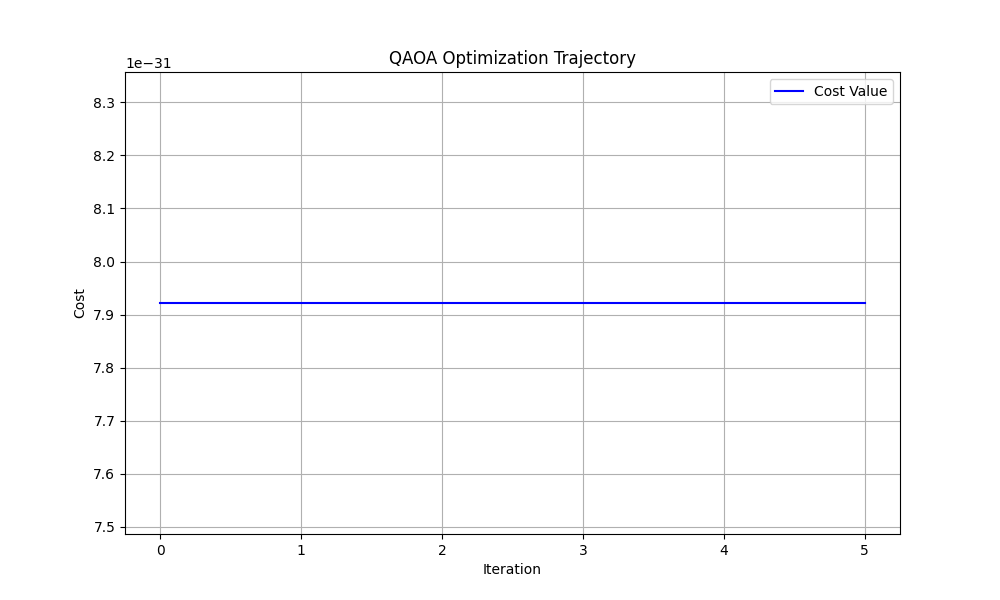
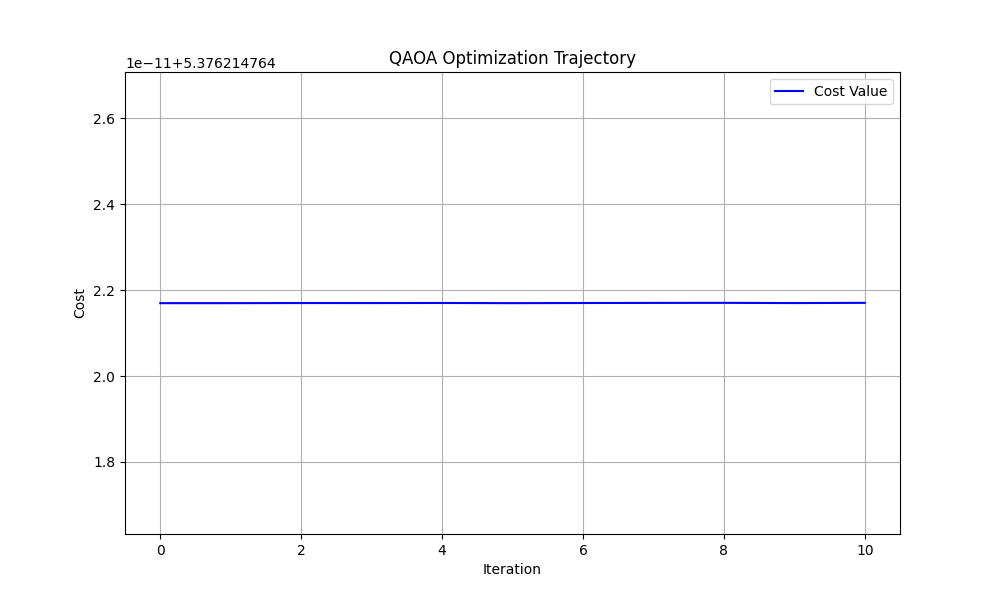
Agent query: I've made improvements to handle larger problem sizes better. Could you try running the optimization with 4 cities again? The optimization should now work with both 3 and 4 cities.
Improve QAOA optimization algorithm robustness and add early stopping criteria to handle larger problem sizes.  Also, update map visualization.

Screenshot: https://storage.googleapis.com/screenshot-production-us-central1/6fde93e7-eeec-4fb5-847b-971d50fc858f/5850331e-8fb6-47d8-b964-aa72ccfd4bc7.jpg

diff --git a/static/route_maps/route_map_46a1403e.html b/static/route_maps/route_map_46a1403e.html
@@ -1,0 +1,298 @@
+<!DOCTYPE html>
+<html>
+<head>
+    
+    <meta http-equiv="content-type" content="text/html; charset=UTF-8" />
+    
+        <script>
+            L_NO_TOUCH = false;
+            L_DISABLE_3D = false;
+        </script>
+    
+    <style>html, body {width: 100%;height: 100%;margin: 0;padding: 0;}</style>
+    <style>#map {position:absolute;top:0;bottom:0;right:0;left:0;}</style>
+    <script src="https://cdn.jsdelivr.net/npm/leaflet@1.9.3/dist/leaflet.js"></script>
+    <script src="https://code.jquery.com/jquery-3.7.1.min.js"></script>
+    <script src="https://cdn.jsdelivr.net/npm/bootstrap@5.2.2/dist/js/bootstrap.bundle.min.js"></script>
+    <script src="https://cdnjs.cloudflare.com/ajax/libs/Leaflet.awesome-markers/2.0.2/leaflet.awesome-markers.js"></script>
+    <link rel="stylesheet" href="https://cdn.jsdelivr.net/npm/leaflet@1.9.3/dist/leaflet.css"/>
+    <link rel="stylesheet" href="https://cdn.jsdelivr.net/npm/bootstrap@5.2.2/dist/css/bootstrap.min.css"/>
+    <link rel="stylesheet" href="https://netdna.bootstrapcdn.com/bootstrap/3.0.0/css/bootstrap-glyphicons.css"/>
+    <link rel="stylesheet" href="https://cdn.jsdelivr.net/npm/@fortawesome/fontawesome-free@6.2.0/css/all.min.css"/>
+    <link rel="stylesheet" href="https://cdnjs.cloudflare.com/ajax/libs/Leaflet.awesome-markers/2.0.2/leaflet.awesome-markers.css"/>
+    <link rel="stylesheet" href="https://cdn.jsdelivr.net/gh/python-visualization/folium/folium/templates/leaflet.awesome.rotate.min.css"/>
+    
+            <meta name="viewport" content="width=device-width,
+                initial-scale=1.0, maximum-scale=1.0, user-scalable=no" />
+            <style>
+                #map_1f6edf17d210b6be6d9f334f558a5874 {
+                    position: relative;
+                    width: 100.0%;
+                    height: 100.0%;
+                    left: 0.0%;
+                    top: 0.0%;
+                }
+                .leaflet-container { font-size: 1rem; }
+            </style>
+        
+    <script src="https://cdn.jsdelivr.net/npm/leaflet-polylineoffset@1.1.1/leaflet.polylineoffset.min.js"></script>
+    <script src="https://cdn.jsdelivr.net/npm/leaflet-textpath@1.2.3/leaflet.textpath.min.js"></script>
+</head>
+<body>
+    
+    
+                <div style="position: fixed; 
+                            bottom: 50px; right: 50px; 
+                            border:2px solid grey; z-index:9999; 
+                            background-color:white;
+                            padding: 10px;
+                            font-size:14px;
+                            border-radius: 5px;
+                            box-shadow: 0 2px 5px rgba(0,0,0,0.1);">
+                    <p style="margin-bottom:5px;"><strong>Routes:</strong></p>
+            <p style="margin:5px 0;"><i style="background: red;width:20px;height:3px;display:inline-block;margin-right:5px;vertical-align:middle;"></i> Route 1</p></div>
+    
+            <div class="folium-map" id="map_1f6edf17d210b6be6d9f334f558a5874" ></div>
+        
+</body>
+<script>
+    
+    
+            var map_1f6edf17d210b6be6d9f334f558a5874 = L.map(
+                "map_1f6edf17d210b6be6d9f334f558a5874",
+                {
+                    center: [37.78572156920716, -122.41076516250756],
+                    crs: L.CRS.EPSG3857,
+                    ...{
+  "zoom": 13,
+  "zoomControl": true,
+  "preferCanvas": false,
+}
+
+                }
+            );
+
+            
+
+        
+    
+            var tile_layer_e9f0db35242a0dbced5fbcff9154a128 = L.tileLayer(
+                "https://{s}.basemaps.cartocdn.com/light_all/{z}/{x}/{y}{r}.png",
+                {
+  "minZoom": 0,
+  "maxZoom": 20,
+  "maxNativeZoom": 20,
+  "noWrap": false,
+  "attribution": "\u0026copy; \u003ca href=\"https://www.openstreetmap.org/copyright\"\u003eOpenStreetMap\u003c/a\u003e contributors \u0026copy; \u003ca href=\"https://carto.com/attributions\"\u003eCARTO\u003c/a\u003e",
+  "subdomains": "abcd",
+  "detectRetina": false,
+  "tms": false,
+  "opacity": 1,
+}
+
+            );
+        
+    
+            tile_layer_e9f0db35242a0dbced5fbcff9154a128.addTo(map_1f6edf17d210b6be6d9f334f558a5874);
+        
+    
+            var poly_line_offset_716fdfb8abd897b3571a4862d9e14a9c = L.polyline(
+                [[37.78602, -122.41135], [37.7861, -122.41136], [37.78636, -122.41142], [37.78651, -122.41145], [37.78687, -122.41152], [37.78695, -122.41154], [37.78703, -122.41155], [37.78722, -122.41159], [37.78757, -122.41166], [37.7878, -122.41171], [37.78788, -122.41172], [37.78796, -122.41174], [37.78816, -122.41178], [37.78826, -122.4118], [37.78837, -122.41182], [37.78848, -122.41185], [37.78874, -122.4119], [37.78881, -122.41191], [37.78889, -122.41193], [37.78967, -122.41208], [37.78974, -122.4121], [37.78982, -122.41212], [37.79012, -122.41218], [37.79026, -122.4122], [37.79035, -122.41222], [37.7905, -122.41225], [37.7906, -122.41227], [37.79068, -122.41229], [37.79076, -122.4123], [37.79082, -122.41232], [37.79154, -122.41246], [37.79162, -122.41248], [37.79163, -122.41248], [37.79165, -122.41248], [37.79174, -122.4125], [37.79213, -122.41258], [37.79246, -122.41265], [37.7925, -122.41265], [37.79256, -122.41267], [37.79255, -122.41276], [37.79237, -122.41418], [37.79236, -122.4142], [37.79236, -122.41422], [37.79235, -122.41431], [37.79234, -122.41441], [37.79224, -122.41513], [37.79219, -122.41553], [37.79216, -122.41581], [37.79216, -122.41583], [37.79215, -122.41587], [37.79214, -122.41596], [37.79213, -122.41605], [37.79209, -122.41631], [37.79195, -122.41745], [37.79194, -122.41751], [37.79193, -122.41758], [37.79193, -122.4176], [37.792, -122.41761], [37.79235, -122.41768], [37.79267, -122.41774], [37.79274, -122.41776], [37.79276, -122.41776], [37.79281, -122.41777], [37.79287, -122.41779], [37.79289, -122.41779], [37.7929, -122.41779], [37.79336, -122.41789], [37.79364, -122.41794], [37.79369, -122.41795], [37.79374, -122.41796], [37.79375, -122.41797], [37.79378, -122.41797], [37.79412, -122.41804], [37.79452, -122.41812], [37.79457, -122.41812], [37.79463, -122.41814], [37.79488, -122.41819], [37.79501, -122.41822], [37.79542, -122.4183], [37.79547, -122.41831], [37.79553, -122.41832], [37.79573, -122.41836], [37.79619, -122.41845], [37.79622, -122.41846], [37.79638, -122.41849], [37.7964, -122.4185], [37.79641, -122.4185], [37.79645, -122.41851], [37.79651, -122.41852], [37.79653, -122.41852], [37.79727, -122.41867], [37.79734, -122.41869], [37.79743, -122.41871], [37.79818, -122.41886], [37.79821, -122.41886], [37.79827, -122.41888], [37.79836, -122.41889], [37.79837, -122.4189], [37.79857, -122.41894], [37.79873, -122.41897], [37.79891, -122.41901], [37.79914, -122.41905], [37.79921, -122.41907], [37.79929, -122.41908], [37.79948, -122.41912], [37.79951, -122.41913], [37.80007, -122.41924], [37.80014, -122.41926], [37.80022, -122.41927], [37.80039, -122.4193], [37.80045, -122.41932], [37.80101, -122.41943], [37.80107, -122.41944], [37.80115, -122.41946], [37.80189, -122.41961], [37.80193, -122.41962], [37.802, -122.41963], [37.802, -122.41964], [37.802, -122.41966], [37.80199, -122.41969], [37.80199, -122.41972], [37.80199, -122.41976], [37.80193, -122.42022], [37.80188, -122.42061], [37.80181, -122.42117], [37.80181, -122.42118], [37.80179, -122.42127], [37.80177, -122.42137], [37.80177, -122.4214], [37.80167, -122.42212], [37.80158, -122.42278], [37.80158, -122.42282], [37.80156, -122.42292], [37.80155, -122.42302], [37.80155, -122.42305], [37.80142, -122.42391], [37.80137, -122.42438], [37.80135, -122.42449], [37.80135, -122.42464], [37.80133, -122.42475], [37.80131, -122.42497], [37.80126, -122.42542], [37.80117, -122.42611], [37.80115, -122.42621], [37.80114, -122.42631], [37.80109, -122.42675], [37.80101, -122.42731], [37.80096, -122.42776], [37.80094, -122.42785], [37.80093, -122.42795], [37.80089, -122.42825], [37.80085, -122.42861], [37.80075, -122.4294], [37.80073, -122.4295], [37.8008, -122.42951], [37.80159, -122.42967], [37.80166, -122.42969]],
+                {"bubblingMouseEvents": true, "color": "red", "dashArray": null, "dashOffset": null, "fill": false, "fillColor": "red", "fillOpacity": 0.2, "fillRule": "evenodd", "lineCap": "round", "lineJoin": "round", "noClip": false, "offset": 0, "opacity": 0.8, "smoothFactor": 1.0, "stroke": true, "weight": 4}
+            ).addTo(map_1f6edf17d210b6be6d9f334f558a5874);
+        
+    
+        var popup_8cc45d82d950c0ef475ecdd1abf959a6 = L.popup({
+  "maxWidth": "100%",
+});
+
+        
+            
+                var html_5a4162bc5a48884cd1c5e38c51e13398 = $(`<div id="html_5a4162bc5a48884cd1c5e38c51e13398" style="width: 100.0%; height: 100.0%;">Route 1: Node 1580501206 → 65317174</div>`)[0];
+                popup_8cc45d82d950c0ef475ecdd1abf959a6.setContent(html_5a4162bc5a48884cd1c5e38c51e13398);
+            
+        
+
+        poly_line_offset_716fdfb8abd897b3571a4862d9e14a9c.bindPopup(popup_8cc45d82d950c0ef475ecdd1abf959a6)
+        ;
+
+        
+    
+    
+            poly_line_offset_716fdfb8abd897b3571a4862d9e14a9c.setText(
+                "\u2794",
+                {
+  "repeat": true,
+  "center": false,
+  "below": false,
+  "offset": 8,
+  "orientation": 0,
+  "attributes": {
+  "fill": "red",
+  "font-size": "24px",
+},
+}
+            );
+        
+    
+            var marker_b94e6138eb2f502ef09a007cc071c2f5 = L.marker(
+                [37.78602, -122.41135],
+                {
+}
+            ).addTo(map_1f6edf17d210b6be6d9f334f558a5874);
+        
+    
+            var icon_77fe2963f109c5dd99fc26e4e0cedea8 = L.AwesomeMarkers.icon(
+                {
+  "markerColor": "red",
+  "iconColor": "white",
+  "icon": "info-sign",
+  "prefix": "fa",
+  "extraClasses": "fa-rotate-0",
+}
+            );
+            marker_b94e6138eb2f502ef09a007cc071c2f5.setIcon(icon_77fe2963f109c5dd99fc26e4e0cedea8);
+        
+    
+        var popup_a22dcd3e195fcfc6afeb788e6d4f7b3f = L.popup({
+  "maxWidth": "100%",
+});
+
+        
+            
+                var html_5fac9550bfd6fe8e140f2be54c7d2fd9 = $(`<div id="html_5fac9550bfd6fe8e140f2be54c7d2fd9" style="width: 100.0%; height: 100.0%;">Depot (Start)</div>`)[0];
+                popup_a22dcd3e195fcfc6afeb788e6d4f7b3f.setContent(html_5fac9550bfd6fe8e140f2be54c7d2fd9);
+            
+        
+
+        marker_b94e6138eb2f502ef09a007cc071c2f5.bindPopup(popup_a22dcd3e195fcfc6afeb788e6d4f7b3f)
+        ;
+
+        
+    
+    
+            var poly_line_offset_8e24fafb483779319f6dfd91487892db = L.polyline(
+                [[37.80166, -122.42969], [37.80159, -122.42967], [37.8008, -122.42951], [37.80073, -122.4295], [37.80072, -122.42959], [37.80063, -122.43033], [37.80057, -122.43081], [37.80055, -122.43097], [37.80054, -122.43105], [37.80053, -122.43114], [37.80051, -122.43123], [37.80033, -122.43269], [37.80032, -122.43279], [37.80022, -122.43277], [37.80015, -122.43275], [37.79985, -122.43269], [37.79948, -122.43262], [37.79945, -122.43261], [37.79938, -122.4326], [37.79931, -122.43258], [37.79922, -122.43257], [37.79909, -122.43254], [37.79891, -122.4325], [37.79856, -122.43243], [37.79852, -122.43242], [37.79845, -122.43241], [37.79838, -122.43239], [37.79834, -122.43239], [37.79761, -122.43224], [37.79759, -122.43224], [37.79751, -122.43222], [37.79744, -122.4322], [37.79742, -122.4322], [37.79669, -122.43205], [37.79666, -122.43205], [37.79658, -122.43203], [37.79651, -122.43202], [37.79648, -122.43201], [37.79574, -122.43186], [37.79572, -122.43186], [37.79565, -122.43184], [37.79558, -122.43183], [37.79556, -122.43183], [37.79481, -122.43167], [37.7948, -122.43167], [37.7947, -122.43165], [37.7946, -122.43163], [37.79459, -122.43163], [37.79388, -122.43149], [37.79377, -122.43146], [37.79368, -122.43145], [37.79299, -122.43131], [37.79297, -122.4313], [37.79289, -122.43129], [37.79282, -122.43127], [37.79281, -122.43127], [37.79211, -122.43113], [37.7921, -122.43113], [37.79202, -122.43111], [37.79195, -122.4311], [37.79193, -122.43109], [37.79137, -122.43098], [37.79125, -122.43096], [37.79121, -122.43095], [37.79114, -122.43093], [37.79107, -122.43092], [37.79104, -122.43091], [37.79036, -122.43077], [37.79033, -122.43077], [37.79026, -122.43075], [37.79019, -122.43074], [37.79017, -122.43074], [37.78944, -122.43059], [37.78943, -122.43059], [37.78933, -122.43057], [37.78924, -122.43055], [37.78846, -122.43039], [37.78838, -122.43037], [37.78836, -122.43047], [37.78818, -122.43193], [37.78817, -122.43202], [37.78808, -122.432], [37.7877, -122.43192], [37.78734, -122.43185], [37.78732, -122.43185], [37.78724, -122.43183], [37.78716, -122.43182], [37.78714, -122.43181], [37.78682, -122.43175], [37.78638, -122.43166], [37.7863, -122.43164], [37.78623, -122.43163], [37.78603, -122.43159], [37.78561, -122.4315], [37.78545, -122.43147], [37.78537, -122.43146], [37.78529, -122.43144], [37.78515, -122.43141], [37.78501, -122.43138], [37.7848, -122.43134], [37.78473, -122.43133], [37.78463, -122.43131], [37.78452, -122.43128], [37.78442, -122.43126], [37.78436, -122.43125], [37.78407, -122.43119], [37.78388, -122.43115], [37.78358, -122.43109], [37.78351, -122.43108], [37.78343, -122.43106], [37.78315, -122.43101], [37.78265, -122.43091], [37.78257, -122.43089], [37.78251, -122.43088], [37.78246, -122.43087], [37.78172, -122.43072], [37.78164, -122.4307], [37.78157, -122.43069], [37.78079, -122.43053], [37.78071, -122.43051], [37.78064, -122.4305], [37.78033, -122.43044], [37.78016, -122.4304], [37.77994, -122.43036], [37.77986, -122.43034], [37.77978, -122.43032], [37.7797, -122.43031], [37.77893, -122.43015], [37.77885, -122.43014], [37.77877, -122.43012], [37.77826, -122.43002], [37.778, -122.42996], [37.77792, -122.42995], [37.77784, -122.42993], [37.77722, -122.42981], [37.77706, -122.42978], [37.77699, -122.42976], [37.77692, -122.42975], [37.77678, -122.42972], [37.77667, -122.4297], [37.77652, -122.42966], [37.77614, -122.42959], [37.77605, -122.42957], [37.77597, -122.42956], [37.77559, -122.42948], [37.77521, -122.4294], [37.77512, -122.42938], [37.77504, -122.42937], [37.77466, -122.42929], [37.77446, -122.42925], [37.77427, -122.42921], [37.77419, -122.4292], [37.7742, -122.42911], [37.77438, -122.42765], [37.7744, -122.42755], [37.77433, -122.42754], [37.77399, -122.42747], [37.77393, -122.42746], [37.77392, -122.42755], [37.77381, -122.42841]],
+                {"bubblingMouseEvents": true, "color": "red", "dashArray": null, "dashOffset": null, "fill": false, "fillColor": "red", "fillOpacity": 0.2, "fillRule": "evenodd", "lineCap": "round", "lineJoin": "round", "noClip": false, "offset": 0, "opacity": 0.8, "smoothFactor": 1.0, "stroke": true, "weight": 4}
+            ).addTo(map_1f6edf17d210b6be6d9f334f558a5874);
+        
+    
+        var popup_b200ec6db2f3d6486e06fa961c2da643 = L.popup({
+  "maxWidth": "100%",
+});
+
+        
+            
+                var html_3e214b7fae0e8d24ff21298cea0d8c32 = $(`<div id="html_3e214b7fae0e8d24ff21298cea0d8c32" style="width: 100.0%; height: 100.0%;">Route 1: Node 65317174 → 65304906</div>`)[0];
+                popup_b200ec6db2f3d6486e06fa961c2da643.setContent(html_3e214b7fae0e8d24ff21298cea0d8c32);
+            
+        
+
+        poly_line_offset_8e24fafb483779319f6dfd91487892db.bindPopup(popup_b200ec6db2f3d6486e06fa961c2da643)
+        ;
+
+        
+    
+    
+            poly_line_offset_8e24fafb483779319f6dfd91487892db.setText(
+                "\u2794",
+                {
+  "repeat": true,
+  "center": false,
+  "below": false,
+  "offset": 8,
+  "orientation": 0,
+  "attributes": {
+  "fill": "red",
+  "font-size": "24px",
+},
+}
+            );
+        
+    
+            var circle_marker_3ae2bfd8f254f7e05dc2ed49d82be4da = L.circleMarker(
+                [37.80166, -122.42969],
+                {"bubblingMouseEvents": true, "color": "red", "dashArray": null, "dashOffset": null, "fill": true, "fillColor": "red", "fillOpacity": 0.7, "fillRule": "evenodd", "lineCap": "round", "lineJoin": "round", "opacity": 1.0, "radius": 8, "stroke": true, "weight": 3}
+            ).addTo(map_1f6edf17d210b6be6d9f334f558a5874);
+        
+    
+        var popup_19d176e78c589e823293df82bd36d522 = L.popup({
+  "maxWidth": "100%",
+});
+
+        
+            
+                var html_cd3eb6c3bf25bf549027ce4917b4d54c = $(`<div id="html_cd3eb6c3bf25bf549027ce4917b4d54c" style="width: 100.0%; height: 100.0%;">Stop 1 (Route 1)</div>`)[0];
+                popup_19d176e78c589e823293df82bd36d522.setContent(html_cd3eb6c3bf25bf549027ce4917b4d54c);
+            
+        
+
+        circle_marker_3ae2bfd8f254f7e05dc2ed49d82be4da.bindPopup(popup_19d176e78c589e823293df82bd36d522)
+        ;
+
+        
+    
+    
+            var poly_line_offset_bbf9ecb4ab560d58a5e723b73be31b57 = L.polyline(
+                [[37.77381, -122.42841], [37.77392, -122.42755], [37.77393, -122.42746], [37.77399, -122.42747], [37.77433, -122.42754], [37.7744, -122.42755], [37.77448, -122.42757], [37.77486, -122.42765], [37.77525, -122.42773], [37.77533, -122.42774], [37.77532, -122.42783], [37.77513, -122.42929], [37.77512, -122.42938], [37.77521, -122.4294], [37.77559, -122.42948], [37.77597, -122.42956], [37.77605, -122.42957], [37.77614, -122.42959], [37.77652, -122.42966], [37.77657, -122.42963], [37.77662, -122.4296], [37.77667, -122.42958], [37.77672, -122.42957], [37.77678, -122.42957], [37.77694, -122.4296], [37.777, -122.42961], [37.77708, -122.42963], [37.7776, -122.42974], [37.77786, -122.42979], [37.77793, -122.4298], [37.77802, -122.42982], [37.77827, -122.42987], [37.77851, -122.42992], [37.77875, -122.42997], [37.77879, -122.42998], [37.77886, -122.42999], [37.77895, -122.43001], [37.77898, -122.43001], [37.77949, -122.43012], [37.77972, -122.43016], [37.7798, -122.43018], [37.77988, -122.4302], [37.78036, -122.43029], [37.78066, -122.43035], [37.78073, -122.43037], [37.7808, -122.43038], [37.78108, -122.43044], [37.78132, -122.43049], [37.78159, -122.43054], [37.78166, -122.43056], [37.78174, -122.43057], [37.78227, -122.43068], [37.78252, -122.43073], [37.78259, -122.43075], [37.78267, -122.43076], [37.78314, -122.43086], [37.78345, -122.43092], [37.78353, -122.43093], [37.7836, -122.43095], [37.78411, -122.43105], [37.78427, -122.43109], [37.78437, -122.43111], [37.78444, -122.43112], [37.78446, -122.43102], [37.78446, -122.43101], [37.78448, -122.43083], [37.78456, -122.43025], [37.78459, -122.43012], [37.78462, -122.43001], [37.78466, -122.4299], [37.78467, -122.42981], [37.78467, -122.42977], [37.78468, -122.42966], [37.78473, -122.42922], [37.78475, -122.42911], [37.78479, -122.42875], [37.78484, -122.42834], [37.78486, -122.42818], [37.78487, -122.42808], [37.78487, -122.42808], [37.78489, -122.42798], [37.7849, -122.42789], [37.78499, -122.42719], [37.78504, -122.42681], [37.78507, -122.42656], [37.78509, -122.42645], [37.7852, -122.42558], [37.78523, -122.42535], [37.78525, -122.42517], [37.78527, -122.42504], [37.78528, -122.42492], [37.78528, -122.4248], [37.78528, -122.42469], [37.78528, -122.42457], [37.78528, -122.42455], [37.78527, -122.42446], [37.78525, -122.42436], [37.78523, -122.42426], [37.7852, -122.42417], [37.78513, -122.42405], [37.78508, -122.42398], [37.78507, -122.42396], [37.78501, -122.42389], [37.78499, -122.42387], [37.78482, -122.42368], [37.78477, -122.42362], [37.78472, -122.42355], [37.78468, -122.42348], [37.78465, -122.42341], [37.78462, -122.42333], [37.78459, -122.42325], [37.78458, -122.42321], [37.78457, -122.42315], [37.78455, -122.42305], [37.78454, -122.42296], [37.78455, -122.42286], [37.78456, -122.42275], [37.78472, -122.42158], [37.78473, -122.42152], [37.78474, -122.42141], [37.78475, -122.42133], [37.78476, -122.42121], [37.78478, -122.42111], [37.78479, -122.42103], [37.78482, -122.4208], [37.78489, -122.42024], [37.7849, -122.42017], [37.78494, -122.4198], [37.78496, -122.41968], [37.78497, -122.41957], [37.78499, -122.41946], [37.78513, -122.41837], [37.78517, -122.41803], [37.78518, -122.41792], [37.78519, -122.41784], [37.78522, -122.41761], [37.78539, -122.41628], [37.78544, -122.41592], [37.78544, -122.41588], [37.78547, -122.41568], [37.78555, -122.41503], [37.78555, -122.41501], [37.78559, -122.41474], [37.7856, -122.41464], [37.78561, -122.41455], [37.78565, -122.41423], [37.7858, -122.41309], [37.78581, -122.41299], [37.78582, -122.4129], [37.78591, -122.41217], [37.78591, -122.41215], [37.786, -122.41146], [37.78602, -122.41135]],
+                {"bubblingMouseEvents": true, "color": "red", "dashArray": null, "dashOffset": null, "fill": false, "fillColor": "red", "fillOpacity": 0.2, "fillRule": "evenodd", "lineCap": "round", "lineJoin": "round", "noClip": false, "offset": 0, "opacity": 0.8, "smoothFactor": 1.0, "stroke": true, "weight": 4}
+            ).addTo(map_1f6edf17d210b6be6d9f334f558a5874);
+        
+    
+        var popup_dc57554f91f4baeb2d6f3117c995cbed = L.popup({
+  "maxWidth": "100%",
+});
+
+        
+            
+                var html_844b8ae7ea60202976c5faa509c322cd = $(`<div id="html_844b8ae7ea60202976c5faa509c322cd" style="width: 100.0%; height: 100.0%;">Route 1: Node 65304906 → 1580501206</div>`)[0];
+                popup_dc57554f91f4baeb2d6f3117c995cbed.setContent(html_844b8ae7ea60202976c5faa509c322cd);
+            
+        
+
+        poly_line_offset_bbf9ecb4ab560d58a5e723b73be31b57.bindPopup(popup_dc57554f91f4baeb2d6f3117c995cbed)
+        ;
+
+        
+    
+    
+            poly_line_offset_bbf9ecb4ab560d58a5e723b73be31b57.setText(
+                "\u2794",
+                {
+  "repeat": true,
+  "center": false,
+  "below": false,
+  "offset": 8,
+  "orientation": 0,
+  "attributes": {
+  "fill": "red",
+  "font-size": "24px",
+},
+}
+            );
+        
+    
+            var circle_marker_aad99799e126242a15a5b297de9512c2 = L.circleMarker(
+                [37.77381, -122.42841],
+                {"bubblingMouseEvents": true, "color": "red", "dashArray": null, "dashOffset": null, "fill": true, "fillColor": "red", "fillOpacity": 0.7, "fillRule": "evenodd", "lineCap": "round", "lineJoin": "round", "opacity": 1.0, "radius": 8, "stroke": true, "weight": 3}
+            ).addTo(map_1f6edf17d210b6be6d9f334f558a5874);
+        
+    
+        var popup_dd7997663d72d8f03198b2a354df9fb2 = L.popup({
+  "maxWidth": "100%",
+});
+
+        
+            
+                var html_572fb23df97cb9725a687e8bc5d100db = $(`<div id="html_572fb23df97cb9725a687e8bc5d100db" style="width: 100.0%; height: 100.0%;">Stop 2 (Route 1)</div>`)[0];
+                popup_dd7997663d72d8f03198b2a354df9fb2.setContent(html_572fb23df97cb9725a687e8bc5d100db);
+            
+        
+
+        circle_marker_aad99799e126242a15a5b297de9512c2.bindPopup(popup_dd7997663d72d8f03198b2a354df9fb2)
+        ;
+
+        
+    
+</script>
+</html>

diff --git a/quantum_route.html b/quantum_route.html
@@ -25,7 +25,7 @@
             <meta name="viewport" content="width=device-width,
                 initial-scale=1.0, maximum-scale=1.0, user-scalable=no" />
             <style>
-                #map_1ced1a1b564bcd143bdc6843ab6cb467 {
+                #map_26bb51385b1b13bf563d98a8f8073962 {
                     position: relative;
                     width: 100.0%;
                     height: 100.0%;
@@ -50,14 +50,14 @@
                     <p style="margin-bottom:5px;"><strong>Routes:</strong></p>
             </div>
     
-            <div class="folium-map" id="map_1ced1a1b564bcd143bdc6843ab6cb467" ></div>
+            <div class="folium-map" id="map_26bb51385b1b13bf563d98a8f8073962" ></div>
         
 </body>
 <script>
     
     
-            var map_1ced1a1b564bcd143bdc6843ab6cb467 = L.map(
-                "map_1ced1a1b564bcd143bdc6843ab6cb467",
+            var map_26bb51385b1b13bf563d98a8f8073962 = L.map(
+                "map_26bb51385b1b13bf563d98a8f8073962",
                 {
                     center: [37.78572156920716, -122.41076516250756],
                     crs: L.CRS.EPSG3857,
@@ -74,7 +74,7 @@
 
         
     
-            var tile_layer_905df7b920b2d7871e140db8cb9b7e95 = L.tileLayer(
+            var tile_layer_30667da371fb27dad2a19e22da5af89c = L.tileLayer(
                 "https://{s}.basemaps.cartocdn.com/light_all/{z}/{x}/{y}{r}.png",
                 {
   "minZoom": 0,
@@ -91,7 +91,7 @@
             );
         
     
-            tile_layer_905df7b920b2d7871e140db8cb9b7e95.addTo(map_1ced1a1b564bcd143bdc6843ab6cb467);
+            tile_layer_30667da371fb27dad2a19e22da5af89c.addTo(map_26bb51385b1b13bf563d98a8f8073962);
         
 </script>
 </html>

diff --git a/qaoa_core.py b/qaoa_core.py
@@ -88,9 +88,10 @@ class QAOACircuit:
                     logger.error(f"Error in cost function: {str(e)}", exc_info=True)
                     return float('inf')
 
-            # Improved gradient descent with momentum
-            learning_rate = 0.05
-            momentum = 0.9
+            # Scale learning rate and momentum based on problem size
+            base_learning_rate = 0.05
+            learning_rate = base_learning_rate / np.sqrt(self.n_qubits)
+            momentum = max(0.5, 0.9 - 0.1 * (self.n_qubits / 16))
             velocity = np.zeros_like(params)
 
             current_cost = cost_function(params)
@@ -99,13 +100,15 @@ class QAOACircuit:
 
             best_cost = current_cost
             best_params = params.copy()
+            no_improvement_count = 0
+            improvement_threshold = 1e-6
 
             for step in range(steps):
                 try:
                     logger.debug(f"Optimization step {step+1}/{steps}")
                     # Compute gradient
                     grad = np.zeros(2)
-                    eps = 1e-4
+                    eps = max(1e-4, 1e-6 * np.sqrt(self.n_qubits))  # Scale epsilon with problem size
 
                     for i in range(2):
                         params_plus = params.copy()
@@ -128,9 +131,17 @@ class QAOACircuit:
                     costs.append(new_cost)
 
                     # Update best solution if needed
-                    if new_cost < best_cost:
+                    if new_cost < best_cost - improvement_threshold:
                         best_cost = new_cost
                         best_params = params.copy()
+                        no_improvement_count = 0
+                    else:
+                        no_improvement_count += 1
+
+                    # Early stopping if no improvement for many steps
+                    if no_improvement_count > 20:
+                        logger.info("Early stopping due to no improvement")
+                        break
 
                     logger.info(f"Step {step+1}: cost={new_cost:.6f}, params={params}")
 
